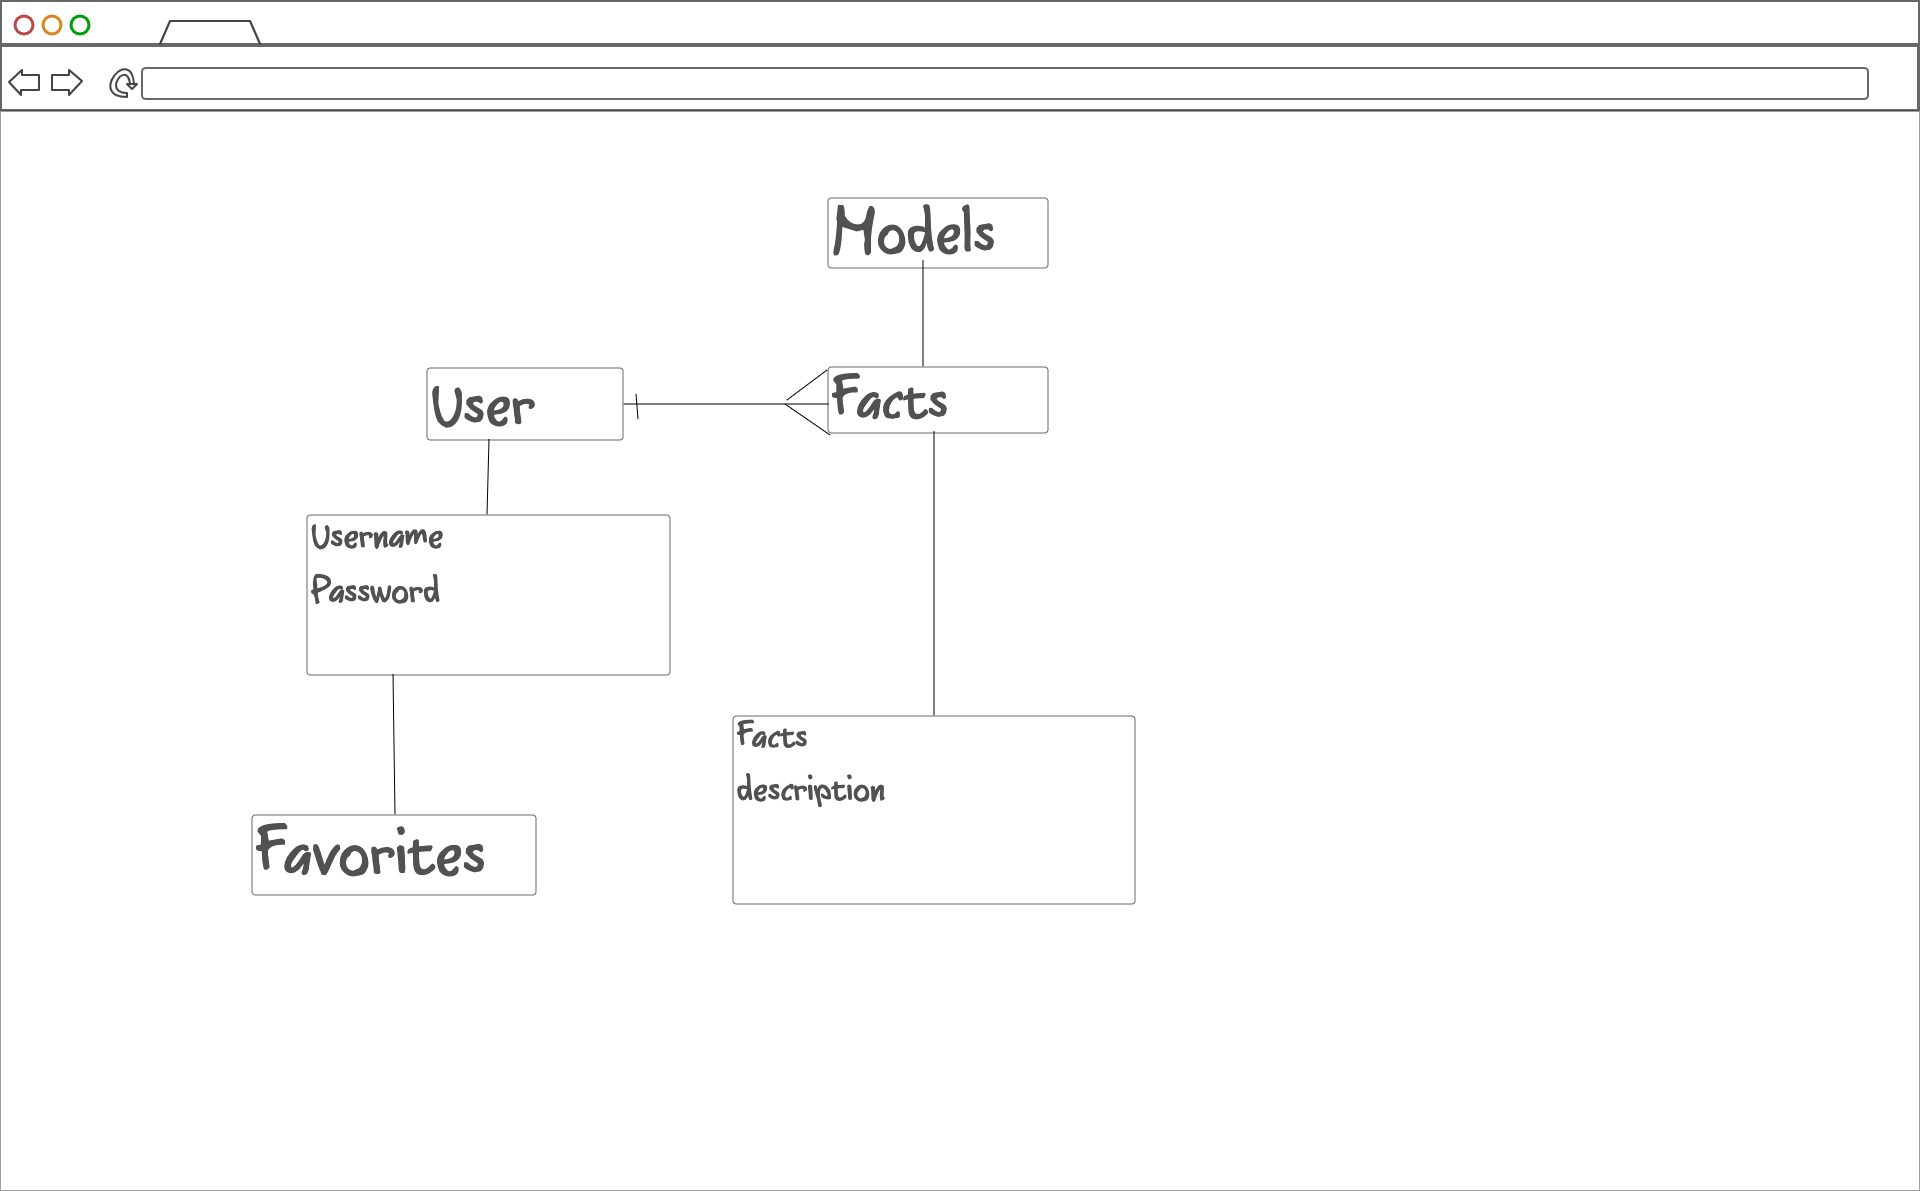
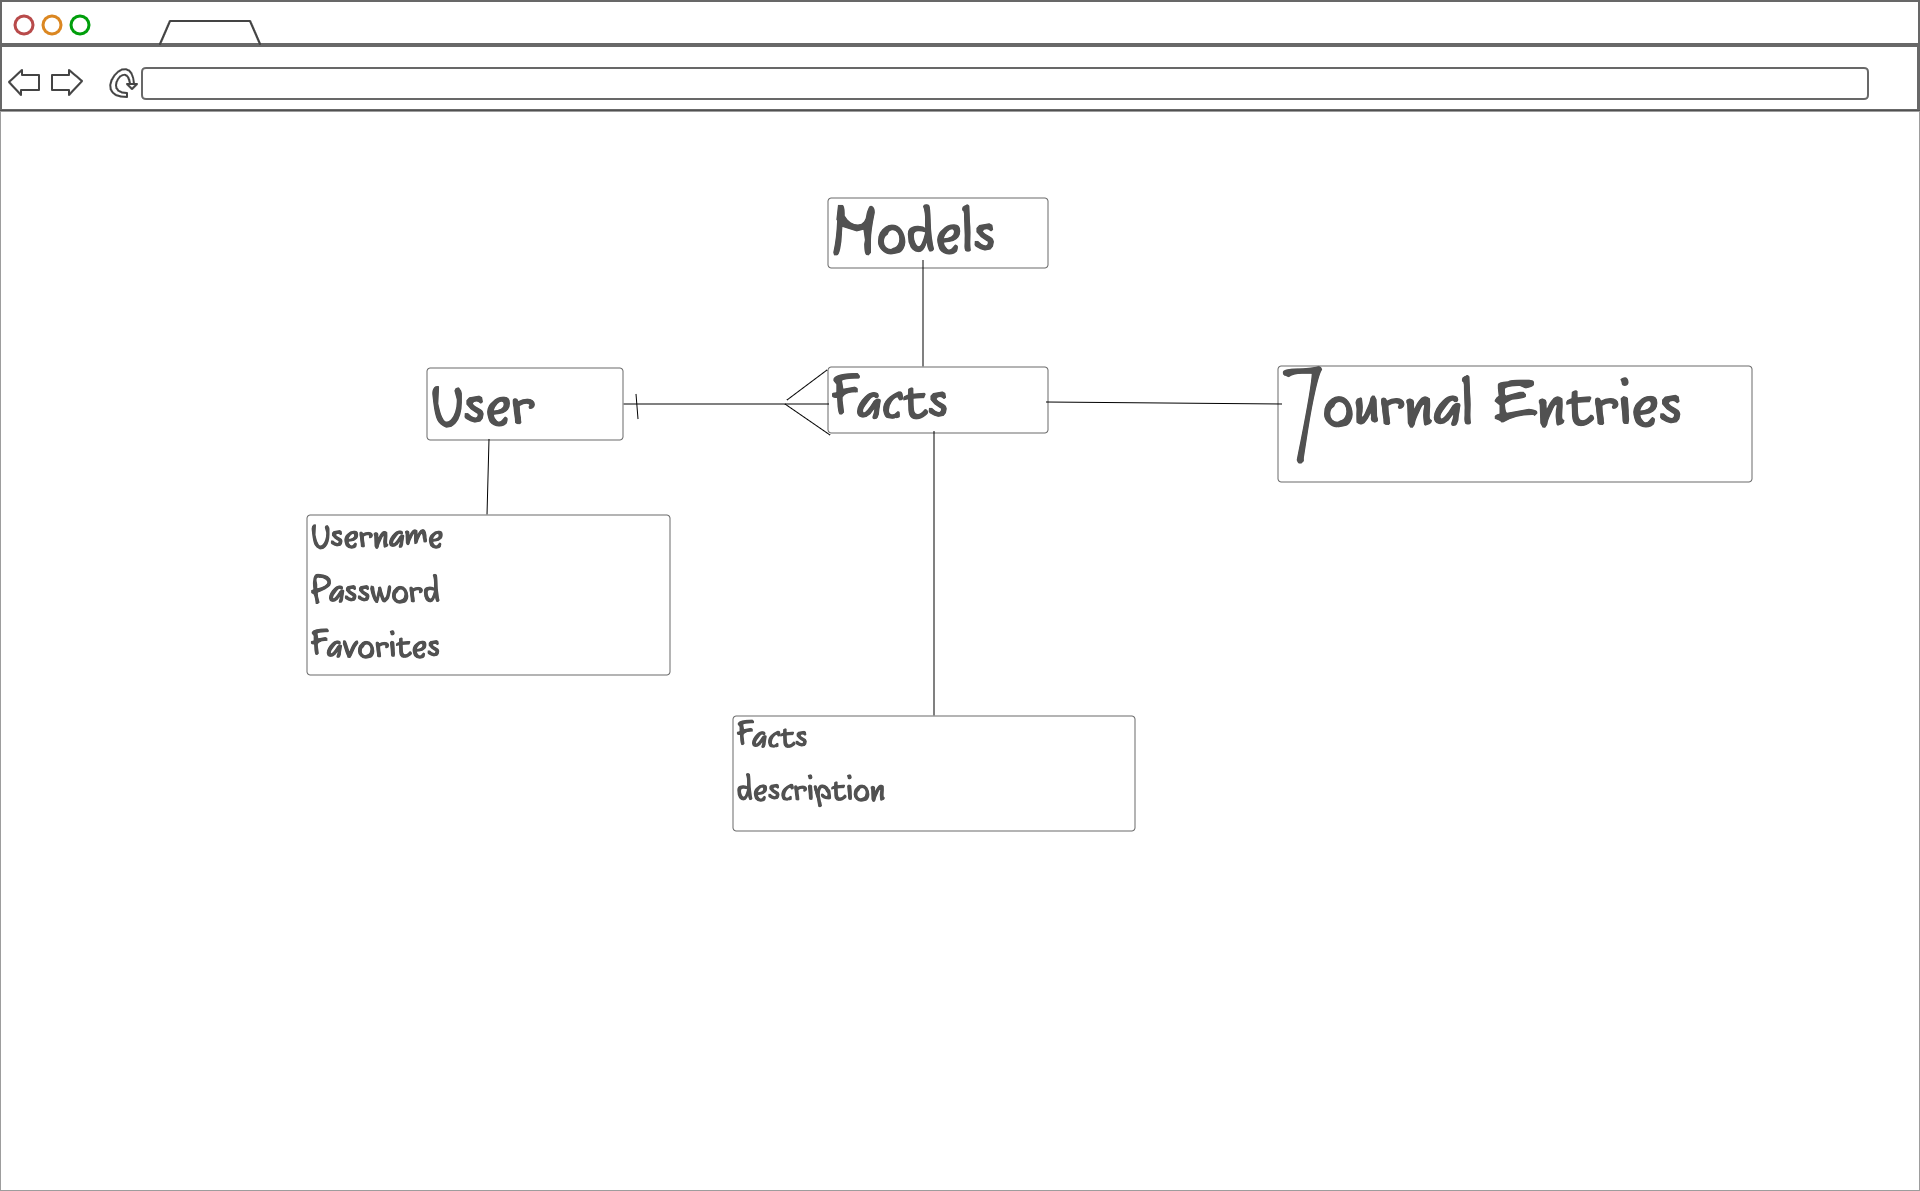
Added Necessary Additions

Changed region(s): [[0.6562, 0.3107, 0.875, 0.3728], [0.125, 0.6835, 0.25, 0.7456], [0.1562, 0.5281, 0.2188, 0.5592]]

diff --git a/README.md b/README.md
@@ -4,6 +4,9 @@ My second project within my coding cohort. This is a random fact generator, full
 ## Description
 Welcome to the Fun Fact Generator! Here's the place where you can get some interesting fun facts that you'll be able to use as great conversation starters whether by the office water cooler, on a date, or even waiting in the doctor's office. Enjoy this endless amount of fun facts and ease of use!
 
+## API
+Here's the base URL for this API: https://api.aakhilv.me
+
 ## User Information
 As a user, I should be able to use this full stack application to:
 1. Receive random facts from database schema
@@ -34,6 +37,9 @@ This will have elements of:
 
 - Favorites 
 ![img](/Wireframe-Imgs/Favorites-Page.png)
+
+- Journal
+![img](/Wireframe-Imgs/Journal-Entry-Page.png)
 
 - Sign Out
 ![img](/Wireframe-Imgs/Signed-Out.png)
